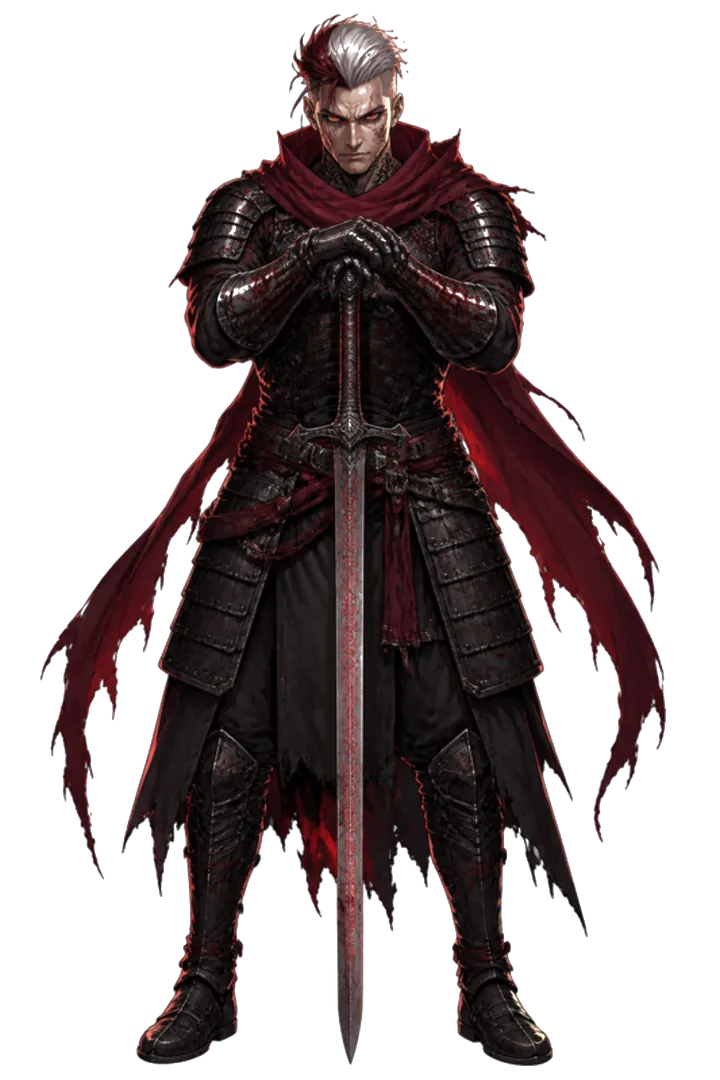
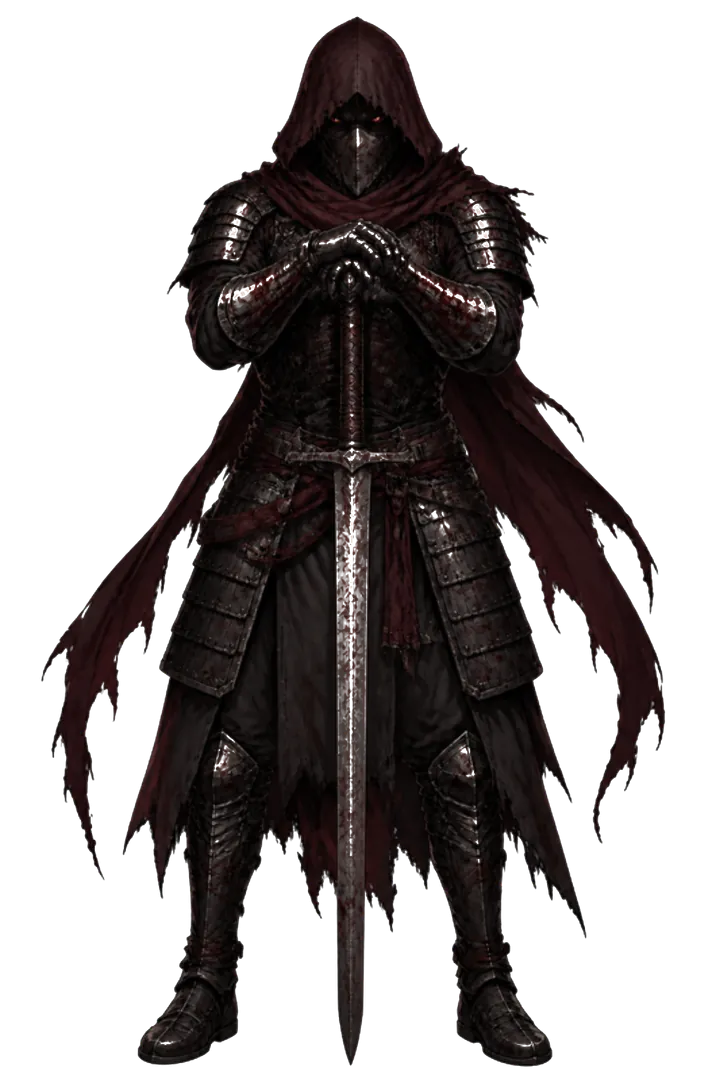
Redraw warrior Tiers 1 and 2 with covered heads
Tier 1 is now hooded with a cracked iron half-mask, and Tier 2 wears an
ash-grey great helm, so they no longer look alike. The art script can now
cut out grey armor without punching holes in it. The spec records the
owner's direction: tiers must look clearly different, and the final boss
is fully combined with the dragon.

diff --git a/src/config/game.config.ts b/src/config/game.config.ts
@@ -75,8 +75,8 @@ export const CORRECTION_WINDOW_HOURS = 24;
 export const WARRIOR_ART_BY_TIER = [1, 2, 3, 4, 4, 6, 6, 6] as const;
 /** Where his eyes glow on each piece of art, as a percentage across and down it. */
 export const WARRIOR_EYES_BY_ART: Record<number, { x: number; y: number }[]> = {
-  1: [{ x: 45.5, y: 10.6 }, { x: 51.5, y: 10.6 }],
-  2: [{ x: 45.5, y: 10.8 }, { x: 51.5, y: 10.8 }],
+  1: [{ x: 46.6, y: 11.1 }, { x: 52.4, y: 11 }],
+  2: [{ x: 46.3, y: 9.5 }, { x: 53.2, y: 9.6 }],
   3: [{ x: 47, y: 10.6 }, { x: 52.5, y: 10.6 }],
   4: [{ x: 49.5, y: 11.6 }],
   6: [{ x: 52, y: 11.4 }],

diff --git a/SPEC.md b/SPEC.md
@@ -161,7 +161,7 @@ This came after Phase 6 and is built before Phase 7. Where it conflicts with Sec
 - **Dragon on Home:** painted into the citadel scene as one picture, supplied by the owner (2026-11-04), so it's part of the sky: a crimson winged dragon coming at the viewer, jaws open, claws out, tail visible. It's a "living painting": soft-edged copies of its wings, claws, body and head move a little on top of the picture, with glowing eyes and throat, embers and lightning flashes. The warrior stands in front, off to one side.
 - **Dragon on the Oracle:** the Oracle *is* a dragon, the earlier standing one, tinted to melt into its surroundings. It stands behind the chat and moves through code the same way.
 - **Character:** one original male anime warrior, stoic, fierce, strong and merciless, with a mantle and a mysterious aura. The pose stays the same. Power states are shown by code effects.
-- **Each tier is its own design:** his head is always covered by a helmet or mask. Tiers don't show one helmet slowly breaking. Each has a unique design, and some of those happen to be broken. Blood on the armor is part of the look.
+- **Each tier is its own design:** his head is always covered by a helmet or mask. Tiers don't show one helmet slowly breaking. Each has a unique design, and some of those happen to be broken. Next to each other, tiers must look clearly different, not like a recolor of the one before (owner, 2026-11-04). Blood on the armor is part of the look.
 
 | Tier | Head | Mantle and armor |
 |---|---|---|
@@ -172,7 +172,7 @@ This came after Phase 6 and is built before Phase 7. Where it conflicts with Sec
 | 5 Dread Warlord | Massive horned helm, cracked open on one side to show one eye | Heavy war mantle, torn banner, soaked in blood |
 | 6 Abyss Sovereign | Shattered black helm, one eye and a scar exposed | Obsidian armor, rune rings |
 | 7 Crimson Tyrant | Iron skull mask split down the middle, eyes burning | Blood-drenched armor, flaming greatsword, wings of smoke |
-| 8 The Eclipse | Black-and-gold crown helm covering half the face, one eye blazing | Final-boss armor, eclipse halo |
+| 8 The Eclipse | Black-and-gold crown helm covering half the face, one eye blazing | The final boss, fully combined with the dragon: dragon scale, wings and tail grown into his body, eclipse halo |
 
 - **Voice:** he speaks Japanese, in pre-made clips, when tapped and at key moments (a block finished, Power lost, a level gained). Lines fit the owner's state, such as a streak or a bad day. Lines are original, not quotes from any work.
 - **Line text:** one line only, in the app's language (English or 繁體中文). The Japanese isn't shown as text.
